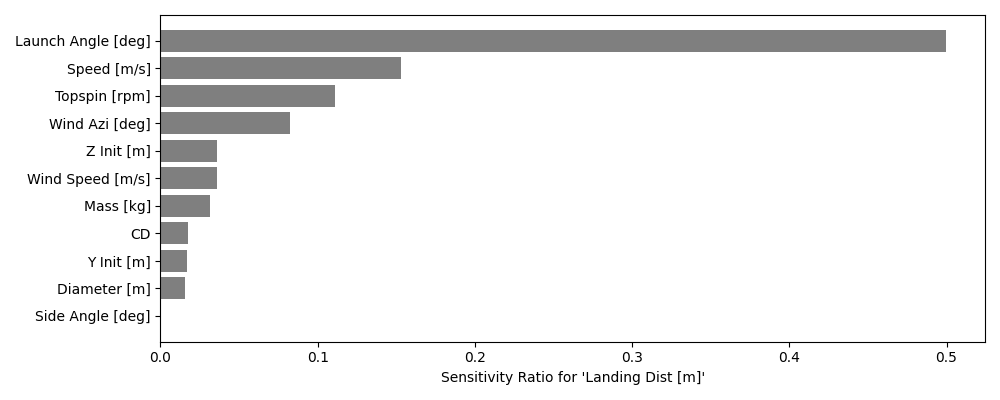
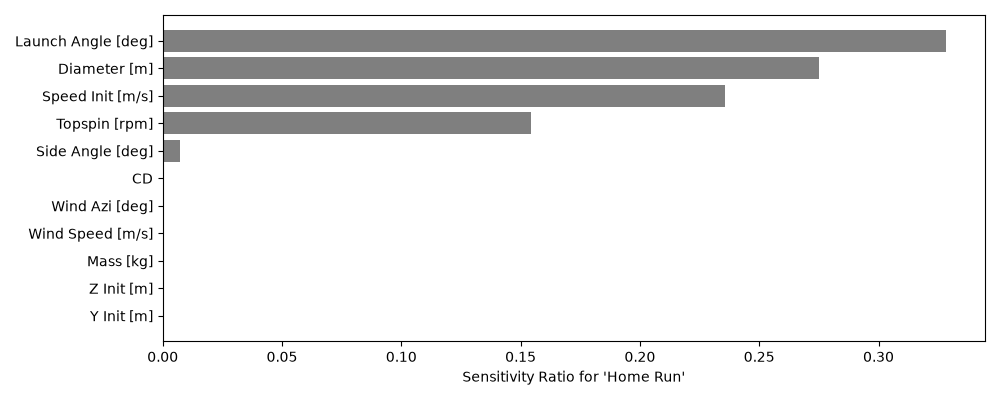
Fix errors in DVARS calculations

diff --git a/src/monaco/dvars_sensitivity.py b/src/monaco/dvars_sensitivity.py
@@ -283,7 +283,7 @@ def calc_L(phi: np.ndarray, X: np.ndarray, Y: np.ndarray) -> float:
     mu = np.linalg.inv(M.T @ Rinv @ M) @ (M.T @ Rinv @ Y)
 
     L_inner = Y - M * mu
-    L = np.log(Rdet) / m + m * np.log(L_inner.T @ Rinv @ L_inner)
+    L = np.log(Rdet) + m * np.log(L_inner.T @ Rinv @ L_inner)
     L = L[0][0]
     return L
 
@@ -314,7 +314,7 @@ def calc_R(
     for u in range(1, m):
         # do lower triangle only and duplicate across diag
         # diag will be all 1s
-        for w in range(1, u):
+        for w in range(u):
             Ruw = calc_Ruw(phi, X[u, :], X[w, :])
             R[u, w] = Ruw
             R[w, u] = Ruw

diff --git a/tests/test_dvars_sensitivity.py b/tests/test_dvars_sensitivity.py
@@ -99,7 +99,7 @@ def test_calc_sensitivities(ndraws=32, show=False):
     calculated_ratios = list(sim.outvars["f"].sensitivity_ratios.values())
 
     if ndraws == 32:
-        expected_ratios = [0.448420, 0.474647, 0.038287, 0.038644, 0.0, 0.0]
+        expected_ratios = [0.426573, 0.573427, 0.0, 0.0, 0.0, 0.0]
         assert np.allclose(calculated_ratios, expected_ratios, atol=1e-5)
 
 